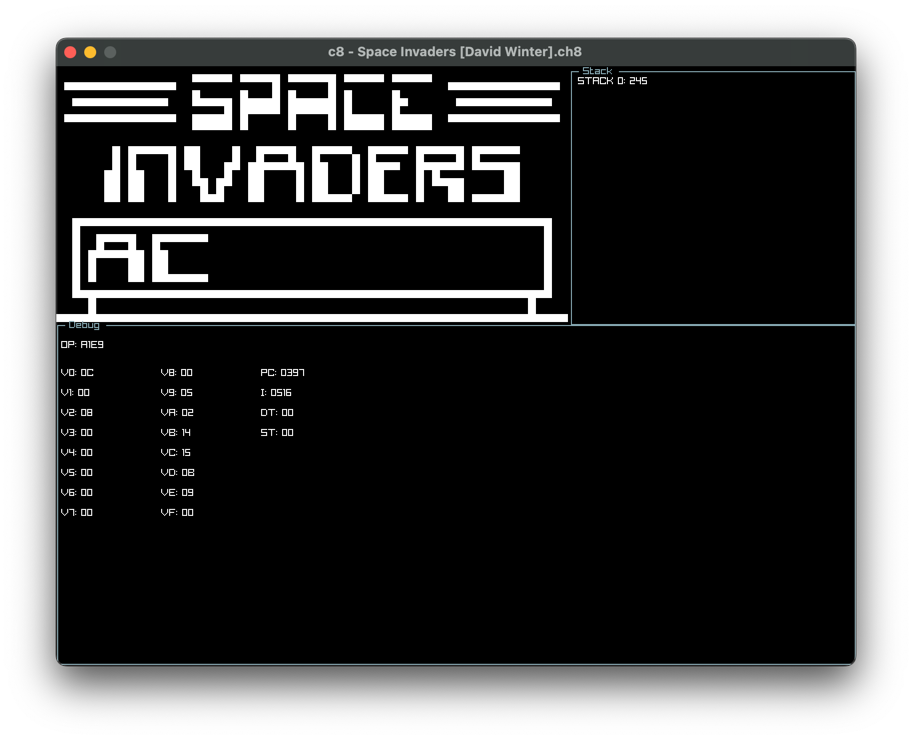
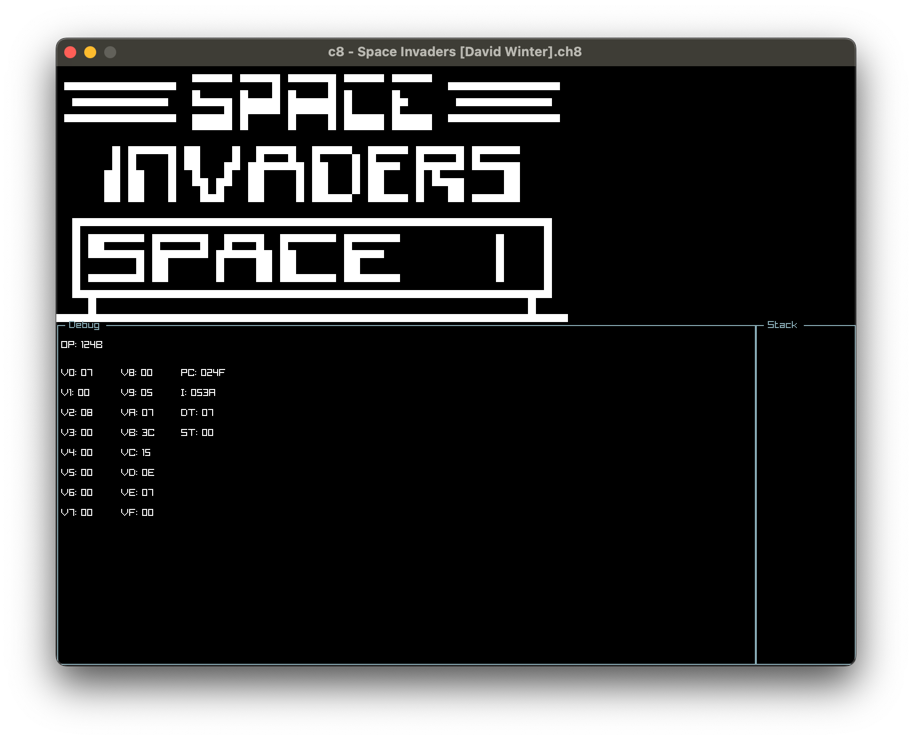
Tidy up UI a bit

diff --git a/main.c b/main.c
@@ -105,10 +105,11 @@ int main(void) {
         }
 
         float uiOffsetY = (float)(vm_config.screen_height * PIXEL_SIZE + 3);
-        GuiGroupBox((Rectangle){1, uiOffsetY, 799, 599 - uiOffsetY}, "Debug");
+        GuiGroupBox((Rectangle){1, uiOffsetY, 699, 599 - uiOffsetY}, "Debug");
+        const uint8_t* mem_at_pc = vm_mem + vm_regs->pc;
         GuiDrawText(
-                TextFormat("OP: %04X", *(uint16_t*)(vm_mem + vm_regs->pc)),
-                (Rectangle){5, uiOffsetY + 10, 100, 20},
+                TextFormat("OP: %04X", ((uint16_t)*mem_at_pc << 8) | *(mem_at_pc + 1)),
+                (Rectangle){5, uiOffsetY + 10, 60, 20},
                 TEXT_ALIGN_LEFT,
                 WHITE
                 );
@@ -116,7 +117,7 @@ int main(void) {
         for (int i = 0; i < 16; ++i) {
             GuiDrawText(
                     TextFormat("V%X: %02X", i, vm_regs->v[i]),
-                    (Rectangle){5 + 100 * (i / 8), uiOffsetY + 40 + 20 * (i % 8), 100, 16},
+                    (Rectangle){5 + 60 * (i / 8), uiOffsetY + 40 + 20 * (i % 8), 60, 16},
                     TEXT_ALIGN_LEFT,
                     WHITE
             );
@@ -124,44 +125,45 @@ int main(void) {
 
         GuiDrawText(
                 TextFormat("PC: %04X", vm_regs->pc),
-                (Rectangle){205, uiOffsetY + 40, 100, 16},
+                (Rectangle){125, uiOffsetY + 40, 60, 16},
                 TEXT_ALIGN_LEFT,
                 WHITE
         );
 
         GuiDrawText(
                 TextFormat("I: %04X", vm_regs->i),
-                (Rectangle){205, uiOffsetY + 60, 100, 16},
+                (Rectangle){125, uiOffsetY + 60, 100, 16},
                 TEXT_ALIGN_LEFT,
                 WHITE
         );
 
         GuiDrawText(
                 TextFormat("DT: %02X", vm_regs->dt),
-                (Rectangle){205, uiOffsetY + 80, 100, 16},
+                (Rectangle){125, uiOffsetY + 80, 100, 16},
                 TEXT_ALIGN_LEFT,
                 WHITE
         );
 
         GuiDrawText(
                 TextFormat("ST: %02X", vm_regs->st),
-                (Rectangle){205, uiOffsetY + 100, 100, 16},
+                (Rectangle){125, uiOffsetY + 100, 100, 16},
                 TEXT_ALIGN_LEFT,
                 WHITE
         );
 
         GuiGroupBox(
                 (Rectangle){
-                    vm_config.screen_width * PIXEL_SIZE + 3, 5,
-                    800 - vm_config.screen_width * PIXEL_SIZE - 3, uiOffsetY - 5
+                    700, uiOffsetY,
+                    100, 599 - uiOffsetY
                     },
                     "Stack"
                     );
 
-        for (int i = vm_regs->sp - 1; i >= 0; --i) {
+        for (int i = 0; i < vm_regs->sp; ++i) {
+            const uint8_t stack_idx = vm_regs->sp - 1 - i;
             GuiDrawText(
-                    TextFormat("STACK %d: %02X", vm_regs->sp - 1 - i, vm_regs->stack[i]),
-                    (Rectangle){vm_config.screen_width * PIXEL_SIZE + 10, 5 + 20 * i, 100, 20},
+                    TextFormat("STACK %d: %04X", stack_idx, vm_regs->stack[stack_idx]),
+                    (Rectangle){710, uiOffsetY + 10 + 20 * i, 80, 20},
                     TEXT_ALIGN_LEFT,
                     WHITE
             );
